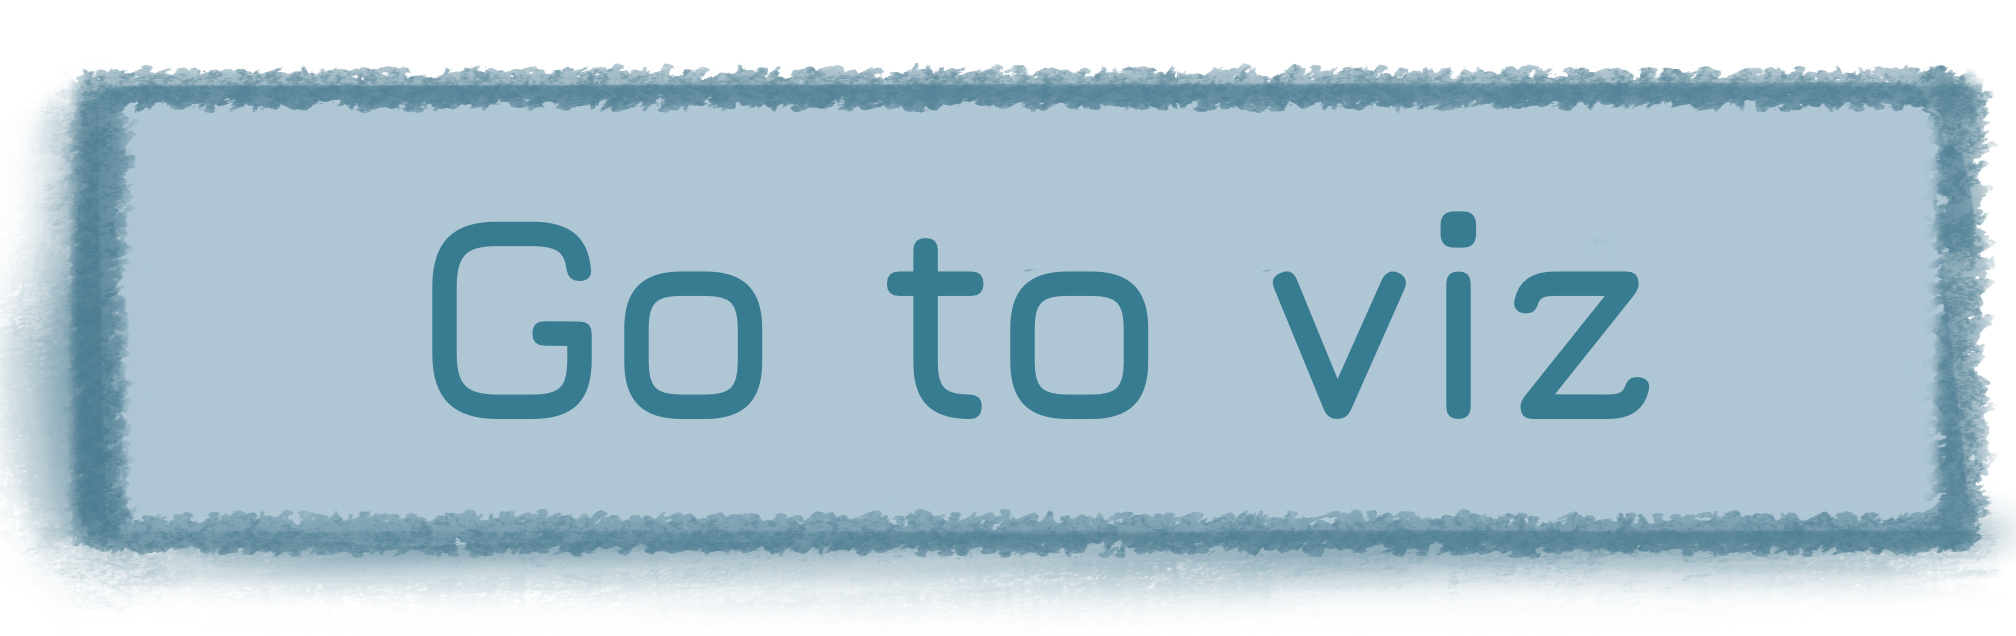
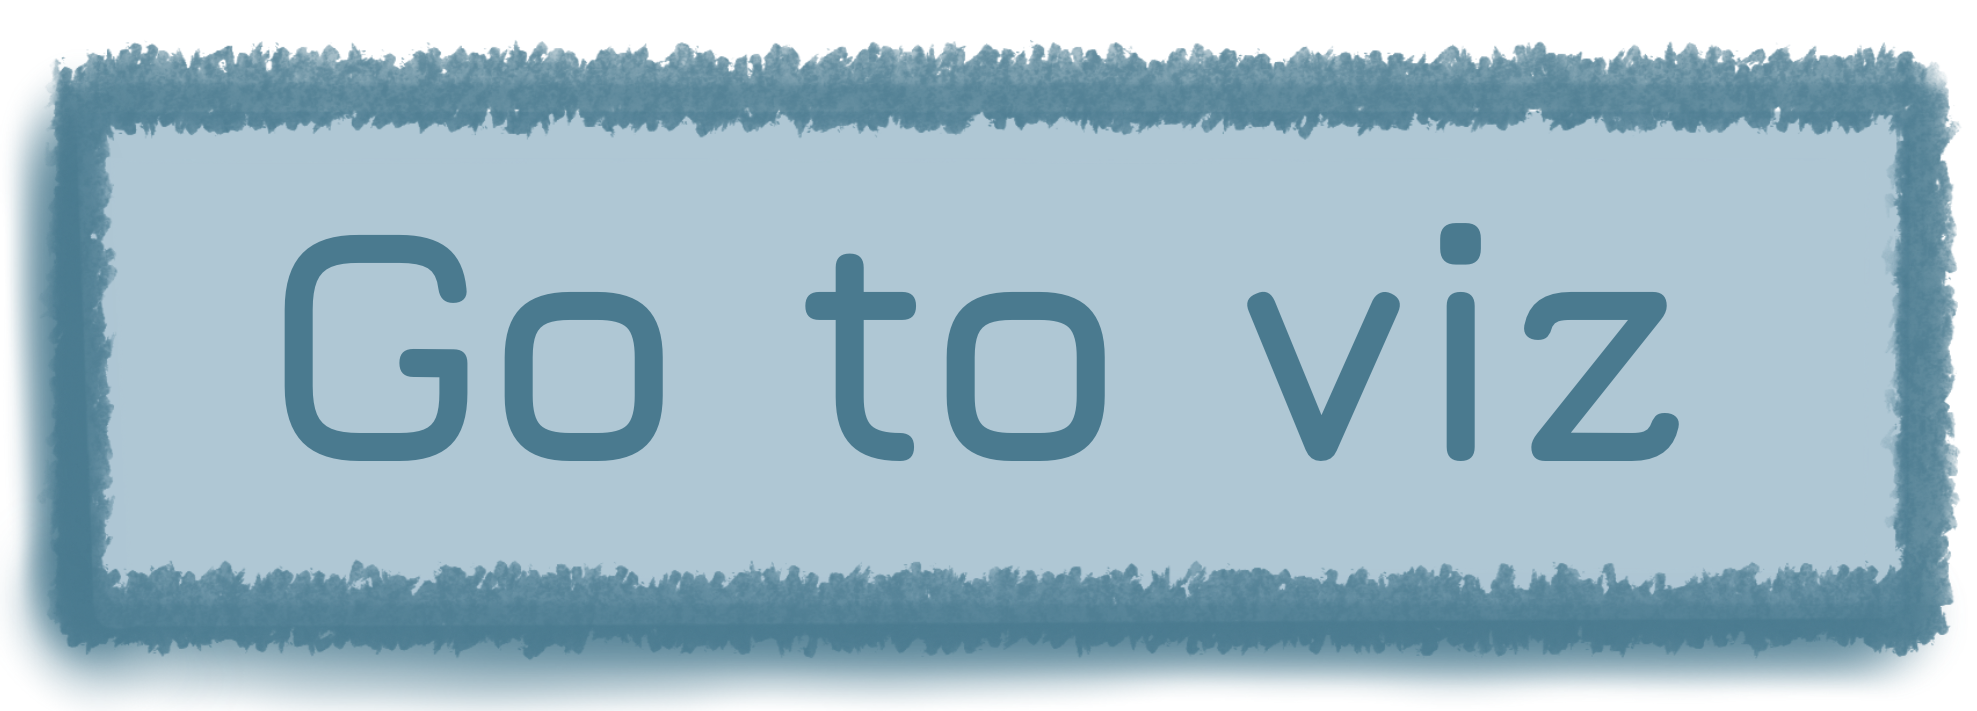
finished circos tutorial

diff --git a/circos/circos_tutorial.html b/circos/circos_tutorial.html
@@ -59,6 +59,14 @@
     #tutorial-container.fade-out {
         opacity: 0;
     }
+    #image-filler {
+        opacity: 1;
+        transition: opacity 0.5s ease-in-out;
+    }
+    #image-filler.hidden {
+        opacity: 0;
+        pointer-events: none;   
+    }
     .intro p {
         white-space: pre-line;
     }
@@ -87,8 +95,8 @@
             </a>
         </div>
     </div>
-    <div class = "image">
-        <img src= "../images/unlabeledcircos.jpg" width = 650>
+    <div class = "image" class = "hidden">
+        <img id = "image-filler" width = 650>
     </div>
 </div>
 </body>
@@ -109,15 +117,16 @@
         "../images/unlabeledcircos.jpg",
         "../images/unlabeledcircos.jpg",
         "../images/labeled.png",
+        "../images/groups.png",
+        "../images/fields.png",
+        "../images/hover.png",
         "../images/unlabeledcircos.jpg",
-        "../images/unlabeledcircos.jpg",
-        "../images/unlabeledcircos.jpg",
-        "../images/unlabeledcircos.jpg",
-        "../images/unlabeledcircos.jpg",
-        "../images/unlabeledcircos.jpg"
+        "../images/zoom.jpg",
+        ""
     ]
         
     const textElement = document.getElementById('tutorial-text');
+    const imageElement = document.getElementById('image-filler');
     const nextButton = document.getElementById('next-btn'); 
     const nextButtonImage = document.querySelector('#next-btn img'); 
     const tutorialContainer = document.getElementById('tutorial-container');
@@ -137,10 +146,19 @@
     }
 
     nextButton.addEventListener('click', (event) => { 
+        tutorialContainer.classList.add('fade-out');
         nextButton.classList.add('hidden');
+        document.querySelector('.image img').classList.add('hidden');
 
         event.preventDefault();
-        tutorialContainer.classList.add('fade-out');
+        
+        setTimeout(() => {
+            nextButton.classList.remove('hidden');
+        }, 4000);  //4000
+        
+        setTimeout(() => {
+            document.querySelector('.image img').classList.remove('hidden');
+        }, 3000); //3000
 
         setTimeout(() => {
             currentStep++;
@@ -152,11 +170,8 @@
                 window.location.href = "circos_main.html";
             }
         }, 400);
-        setTimeout(() => {
-            nextButton.classList.remove('hidden');
-        }, 1000); //change to 3000
         
-
+        
     }
 );
 
@@ -164,7 +179,11 @@
 
     setTimeout(() => {
         nextButton.classList.remove('hidden');
-    }, 1000); //change to 2000
+    }, 2000); 
+
+    setTimeout(() => {
+        document.querySelector('.image img').classList.remove('hidden');
+    }, 3000); 
 
 
 </script>

diff --git a/circos/circos_page.html b/circos/circos_page.html
@@ -52,13 +52,17 @@
     .intro {
         font-size: 20px;
     }
-    .buttons {
+    .buttons_wrapper {
         display: flex;
-        flex-direction: column;
-        align-items: center;
+        flex-direction: row;
         justify-content: center;
-        margin-top: 150px;
-        gap: 20px;
+        align-items: center;
+        gap: 100px;
+        margin-top: 100px;
+        margin-right: 30px;
+    }
+    .buttons2:hover {
+        scale: 1.1;
     }
     .image {
         margin-right: 50px;
@@ -90,13 +94,21 @@
                 <br>
                 <br>
 
-                Click on the tutorial button to proceed to visualization.
+                Click on the tutorial button to learn how to read this visualization, or click "Go to viz" to jump to it.
         </div>
-        <div class = "buttons">
+        <div class = "buttons_wrapper">
+            <div class = "buttons">
             <a href = "circos_tutorial.html">
                 <img src = "../images/tutorial.png" width = 150>
             </a>
         </div>
+        <div class = "buttons2">
+            <a href = "circos_main.html">
+                <img src = "../images/gotoviz.png" width = 150>
+            </a>
+        </div>
+        </div>
+    
     </div>
     <div class = "image">
         <img src= "../images/unlabeledcircos.jpg" width = 650>
